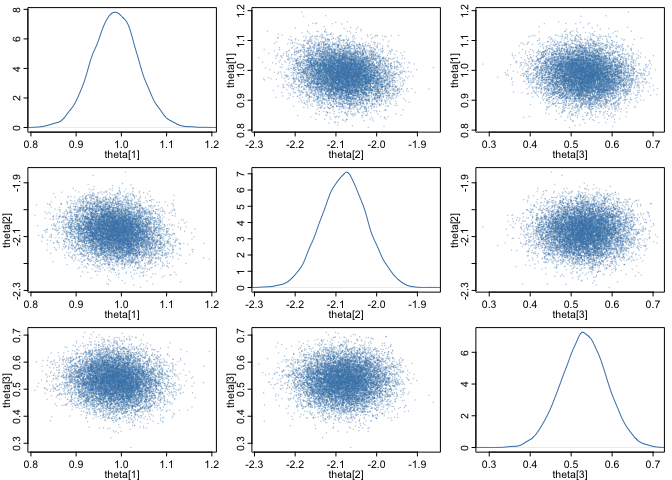
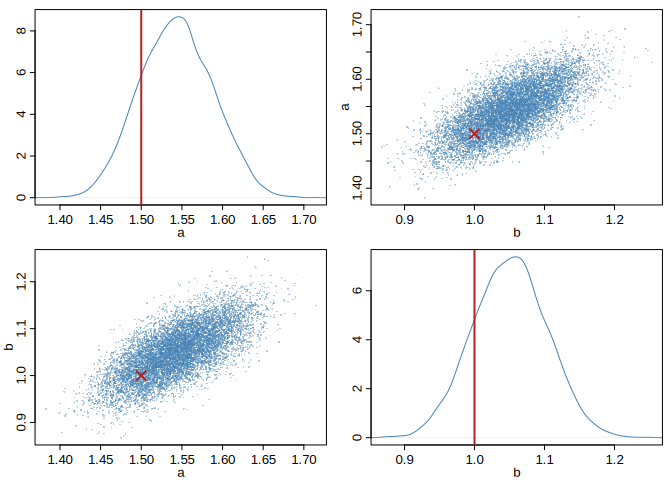
Render README; drop SBC from example, pin neural seed
Regenerate README.md and the pairplot figure from README.Rmd for the new
exponential-decay example. Two refinements to the example itself:

- Drop the sbc() call. Calibration belongs in vignette("diagnostics"); the
  landing example should stay short and fast, so it now shows only the MAP
  point estimate alongside the posterior mean.
- Pass seed = 1 to npe() so the neural fit is reproducible. set.seed() alone
  does not cover torch's RNG, so the printed numbers drifted between renders;
  the seed pins them. Posterior mean and MAP both land on the true (1.5, 1.0).

diff --git a/README.md b/README.md
@@ -30,57 +30,54 @@ torch::install_torch()
 
 Simulation-based inference recovers parameters from a model you can
 simulate but whose likelihood you would rather not write down. To make
-that concrete, here is a plain linear regression, `y = X beta + noise`.
-We know the answer (ordinary least squares), so we can check that the
-posterior lands on the truth.
+that concrete, take a noisy exponential decay measured at ten time
+points — a cooling object, a clearing drug — with an amplitude `a` and a
+decay rate `b` to recover. We know the parameters that generated the
+data, so we can check that the posterior lands on them.
 
 ``` r
 library(neuralsbi)
 set.seed(1)
 
-# A linear regression: intercept + two covariates, 100 observations.
-N <- 100
-X <- cbind(1, matrix(rnorm(N * 2), N, 2))   # design matrix
-beta_true <- c(1, -2, 0.5)                  # the coefficients to recover
-sigma <- 0.5                                # noise standard deviation
-
-# Simulator: given coefficients, simulate a data set and summarise it by the
-# least-squares fit. Those fitted coefficients are the "data" the posterior sees.
-fit_ols   <- function(y) lm.fit(X, y)$coefficients
+# Simulator: given (a, b), measure the decay curve a * exp(-b * t) at ten times,
+# with observation noise. It only generates data — no fitting happens here.
+times     <- seq(0, 2, length.out = 10)
 simulator <- function(theta) {
-  t(apply(theta, 1, function(beta) fit_ols(X %*% beta + rnorm(N, sd = sigma))))
+  t(apply(theta, 1, function(p) p[1] * exp(-p[2] * times) + rnorm(length(times), sd = 0.05)))
 }
 
-# Prior over the three coefficients, then train the neural posterior.
-prior <- prior_uniform(low = rep(-3, 3), high = rep(3, 3))
-fit   <- npe(prior, simulator, n_simulations = 3000)
+# Prior over the amplitude and decay rate, then train the neural posterior.
+prior <- prior_uniform(low = c(0, 0), high = c(3, 3))
+fit   <- npe(prior, simulator, n_simulations = 3000, seed = 1)
 
-# Observe one data set generated from beta_true, then infer the coefficients.
-y_obs <- X %*% beta_true + rnorm(N, sd = sigma)
-post  <- posterior(fit, x_obs = fit_ols(y_obs))
-draws <- sample(post, 10000)
+# Measure one curve from known parameters, then infer them back.
+theta_true <- c(a = 1.5, b = 1.0)
+x_obs      <- simulator(rbind(theta_true))
+post       <- posterior(fit, x_obs = x_obs)
+draws      <- sample(post, 10000)
 ```
 
-The posterior mean recovers the ground-truth coefficients:
+The posterior mean recovers the parameters that generated the curve:
 
 ``` r
-rbind(truth = beta_true, posterior_mean = colMeans(draws))
-#>                     [,1]      [,2]      [,3]
-#> truth          1.0000000 -2.000000 0.5000000
-#> posterior_mean 0.9862805 -2.080193 0.5313938
+rbind(truth = theta_true, posterior_mean = colMeans(draws))
+#>                       a        b
+#> truth          1.500000 1.000000
+#> posterior_mean 1.543212 1.050659
 ```
 
 ``` r
-pairplot(draws)     # joint and marginal views of the posterior
+pairplot(draws, truth = theta_true, labels = c("a", "b"))
 ```
 
-<img src="man/figures/README-pairplot-1.png" alt="Pairwise posterior over the three regression coefficients." width="100%" />
+<img src="man/figures/README-pairplot-1.png" alt="Pairwise posterior over the decay amplitude and rate." width="100%" />
 
-The same posterior supports point estimates and calibration checks:
+The same posterior gives a point estimate; calibration checks such as
+simulation-based calibration live in `vignette("diagnostics")`.
 
 ``` r
 map_estimate(post)     # posterior mode
-sbc(fit, simulator)    # simulation-based calibration
+#> [1] 1.539072 1.048587
 ```
 
 If you’re interested in sbi in other languages or functionality not